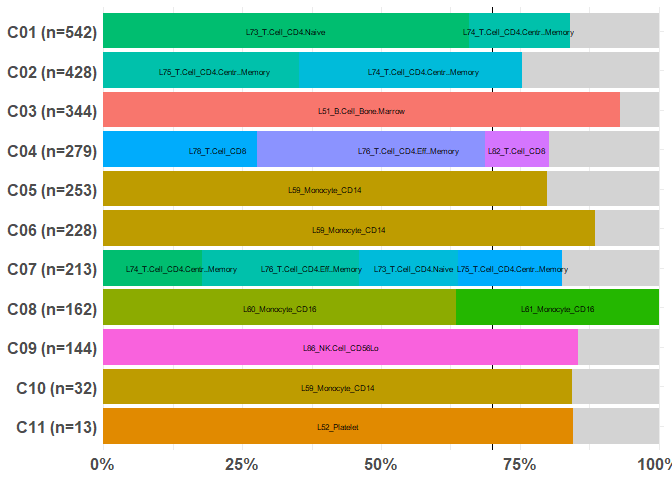
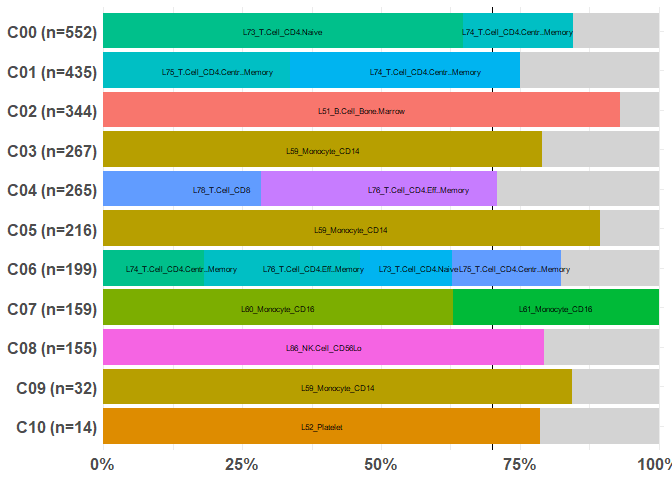
Updated the README.Rmd and knitted the md.

diff --git a/README.md b/README.md
@@ -21,14 +21,14 @@ We can ensure all the necessary prerequisites are met via
 ``` r
 if (!requireNamespace("pacman", quietly = TRUE)) install.packages("pacman")
 
-pacman::p_load( Seurat, SingleR, celldex )
+pacman::p_load(Seurat, SingleR, celldex, tidyverse)
 
-pacman::p_load_gh("prabhakarlab/RCAv2")
-pacman::p_load_gh("JinmiaoChenLab/DISCOtoolkit")
 pacman::p_load_gh("satijalab/Azimuth")
+pacman::p_load_gh("prabhakarlab/RCAv2")
+pacman::p_load_gh("lmw123/DISCOtoolkit")
 ```
 
-Next, you can install AnnotateCells:
+Finally, you can install AnnotateCells:
 
 ``` r
 pacman::p_load_gh("adairama/AnnotateCells")
@@ -42,66 +42,55 @@ experiment. This is the same dataset used in the fundamental Seurat
 vignette after QC filtering with PCA and UMAP embedding. See
 `help(pbmc.demo)` for more details.
 
-``` r
-library(AnnotateCells)
-#> Loading required package: Seurat
-#> Warning: package 'Seurat' was built under R version 4.4.3
-#> Loading required package: SeuratObject
-#> Warning: package 'SeuratObject' was built under R version 4.4.3
-#> Loading required package: sp
-#> Warning: package 'sp' was built under R version 4.4.2
-#> 
-#> Attaching package: 'SeuratObject'
-#> The following objects are masked from 'package:base':
-#> 
-#>     intersect, t
-#> Loading required package: tidyverse
-#> Warning: package 'ggplot2' was built under R version 4.4.3
-#> Warning: package 'purrr' was built under R version 4.4.2
-#> Warning: package 'lubridate' was built under R version 4.4.2
-#> ── Attaching core tidyverse packages ────────────────────────────────────────────────────────────────────────────────────────────── tidyverse 2.0.0 ──
-#> ✔ dplyr     1.1.4     ✔ readr     2.1.5
-#> ✔ forcats   1.0.0     ✔ stringr   1.5.1
-#> ✔ ggplot2   3.5.2     ✔ tibble    3.2.1
-#> ✔ lubridate 1.9.4     ✔ tidyr     1.3.1
-#> ✔ purrr     1.0.4
-#> ── Conflicts ──────────────────────────────────────────────────────────────────────────────────────────────────────────────── tidyverse_conflicts() ──
-#> ✖ dplyr::filter() masks stats::filter()
-#> ✖ dplyr::lag()    masks stats::lag()
-#> ℹ Use the conflicted package (<http://conflicted.r-lib.org/>) to force all conflicts to become errors
+First we load the required packages:
 
+``` r
+pacman::p_load(tidyverse, Seurat, AnnotateCells)
+```
+
+``` r
 data(pbmc.demo)
 
 pbmc.demo
 #> An object of class Seurat 
-#> 13714 features across 2638 samples within 1 assay 
-#> Active assay: RNA (13714 features, 2000 variable features)
+#> 12519 features across 2638 samples within 1 assay 
+#> Active assay: RNA (12519 features, 2000 variable features)
 #>  2 layers present: counts, data
 #>  2 dimensional reductions calculated: pca, umap
 ```
 
-The Seurat package includes a column called `seurat_annotations`, which
-we will treat as the ground truth for evaluating annotation accuracy.
+`pbmc.demo` includes two relevant columns in meta.data:
 
-For the purpose of demonstrating the cell annotation workflow, we will
-use annotate the 11 clusters found in the `RNA_snn_res.0.8` column.
-These clusters were generated using the Louvain algorithm with a
-resolution of 0.8.
+- `seurat_annotations`: author-provided cell type labels, used here as
+  ground truth for evaluating annotation accuracy
+
+- `RNA_snn_res.0.8`: cluster assignments generated by the Louvain
+  algorithm at a resolution of 0.8, yielding 11 clusters which we will
+  try to annotate
 
 ``` r
 pbmc.demo@meta.data %>% head()
 #>                nCount_RNA nFeature_RNA percent.mt seurat_annotations RNA_snn_res.0.8
-#> AAACATACAACCAC       2419          779       3.02       Memory CD4 T             C07
-#> AAACATTGAGCTAC       4903         1352       3.79                  B             C03
-#> AAACATTGATCAGC       3147         1129       0.89       Memory CD4 T             C02
-#> AAACCGTGCTTCCG       2639          960       1.74         CD14+ Mono             C05
-#> AAACCGTGTATGCG        980          521       1.22                 NK             C09
-#> AAACGCACTGGTAC       2163          781       1.66       Memory CD4 T             C02
+#> AAACATACAACCAC       2419          779       3.02       Memory CD4 T             C06
+#> AAACATTGAGCTAC       4903         1352       3.79                  B             C02
+#> AAACATTGATCAGC       3147         1129       0.89       Memory CD4 T             C01
+#> AAACCGTGCTTCCG       2639          960       1.74         CD14+ Mono             C03
+#> AAACCGTGTATGCG        980          521       1.22                 NK             C08
+#> AAACGCACTGGTAC       2163          781       1.66       Memory CD4 T             C01
 
-table(pbmc.demo$RNA_snn_res.0.8)
-#> 
-#> C01 C02 C03 C04 C05 C06 C07 C08 C09 C10 C11 
-#> 542 428 344 279 253 228 213 162 144  32  13
+# Note: this is a luxury since we have a ground truth
+table(pbmc.demo$seurat_annotations, pbmc.demo$RNA_snn_res.0.8) 
+#>               
+#>                C00 C01 C02 C03 C04 C05 C06 C07 C08 C09 C10
+#>   Naive CD4 T  534  15   0   0   0   0 148   0   0   0   0
+#>   Memory CD4 T  18 420   0   0   2   0  43   0   0   0   0
+#>   CD14+ Mono     0   0   0 263   0 216   0   1   0   0   0
+#>   B              0   0 344   0   0   0   0   0   0   0   0
+#>   CD8 T          0   0   0   0 263   0   8   0   0   0   0
+#>   FCGR3A+ Mono   0   0   0   4   0   0   0 158   0   0   0
+#>   NK             0   0   0   0   0   0   0   0 155   0   0
+#>   DC             0   0   0   0   0   0   0   0   0  32   0
+#>   Platelet       0   0   0   0   0   0   0   0   0   0  14
 ```
 
 # Available panels
@@ -111,19 +100,16 @@ dt
 # Run RCAv2 annotation
 
 Here is an example on how to run the RCAv2 tool with the
-GlobalPanel_CellTypes panel.
+GlobalPanel_CellTypes panel and add the results to the meta data.
 
 ``` r
 pred <- AnnotateCells(pbmc.demo, "RCAv2.GlobalPanel_CellTypes")
 #> 
 #>  GlobalPanel_CellTypes 
-#> 13714 genes in query dataset.
+#> 12519 genes in query dataset.
 #> 8883 genes detected in at least 1% of the samples.
 #> 5209 genes in the reference panel.
 #> 1192 genes in common used for projection.
-
-dim(pred)
-#> [1] 2638    1
 
 head(pred)
 #>                 RCAv2.GlobalPanel_CellTypes
@@ -133,11 +119,7 @@ head(pred)
 #> AAACCGTGCTTCCG            L60_Monocyte_CD16
 #> AAACCGTGTATGCG           L86_NK.Cell_CD56Lo
 #> AAACGCACTGGTAC L75_T.Cell_CD4.Centr..Memory
-```
 
-Let us add the prediction to the Seurat object.
-
-``` r
 pbmc.demo <- AddMetaData(pbmc.demo, pred)
 ```
 
@@ -145,52 +127,48 @@ pbmc.demo <- AddMetaData(pbmc.demo, pred)
 
 The first time you run the DISCO annotation, the required reference data
 (~175 MB) will be downloaded from the server. This may take a few
-minutes (\<5 min), depending on your internet speed. The downloaded data
-will be stored in the data directory of the `AnnotateCells` package for
-future use.
+minutes (\< 5 min), depending on your internet speed. The downloaded
+data will be stored in the data directory of the `AnnotateCells` package
+for future use.
 
 ``` r
 pred <- AnnotateCells(pbmc.demo, "DISCO.all")
 #> As of Seurat v5, we recommend using AggregateExpression to perform pseudo-bulk analysis.
-#> Downloading reference data from server...
+#> Loading reference data from local file...
 #> 
-#> Download complete. File saved to: C:/Users/aramasamy/AppData/Local/R/win-library/4.4/AnnotateCells/data/ref_data.rds
-#> 
-#> Downloading reference deg from server...
-#> 
-#> Download complete. File saved to: C:/Users/aramasamy/AppData/Local/R/win-library/4.4/AnnotateCells/data/ref_deg.rds
+#> Loading reference deg from local file...
 #> 
 #> Loading required package: DISCOtoolkit
 #> 
-#> Welcome to DISCOtoolkit.
+#> Welcome to DISCOtoolkit. version 2.0.0
 #> 
 #> This message is displayed once per session.
 #> 
 #> 
 #> |Ident |predict_cell_type_1 |source_atlas_1    | score_1|
 #> |:-----|:-------------------|:-----------------|-------:|
-#> |6     |GZMK CD8 T cell     |sarcoidosis_blood |   0.826|
-#> |2     |Naive B cell        |sarcoidosis_blood |   0.841|
-#> |1     |Memory CD4 T cell   |sarcoidosis_blood |   0.943|
-#> |4     |CD14 monocyte       |COVID-19_blood    |   0.833|
-#> |8     |CD16 NK cell        |COVID-19_blood    |   0.838|
-#> |3     |Memory CD8 T cell   |dengue_blood      |   0.810|
+#> |6     |GZMK CD8 T cell     |sarcoidosis_blood |   0.844|
+#> |2     |Naive B cell        |sarcoidosis_blood |   0.838|
+#> |1     |Memory CD4 T cell   |sarcoidosis_blood |   0.934|
+#> |3     |CD14 monocyte       |COVID-19_blood    |   0.830|
+#> |8     |CD16 NK cell        |bone_marrow       |   0.837|
+#> |4     |Memory CD8 T cell   |dengue_blood      |   0.795|
 #> |7     |CD16 monocyte       |HNSCC_blood       |   0.864|
-#> |0     |Naive CD4 T cell    |HNSCC_blood       |   0.967|
+#> |0     |Naive CD4 T cell    |HNSCC_blood       |   0.966|
 #> |5     |CD14 monocyte       |COVID-19_blood    |   0.854|
 #> |9     |Dendritic cell      |HNSCC_blood       |   0.891|
 #> |10    |Megakaryocyte       |sarcoidosis_blood |   0.776|
 
-pbmc.demo <- AddMetaData(pbmc.demo, pred)
+head(pred)
+#>                        DISCO.all
+#> AAACATACAACCAC   GZMK CD8 T cell
+#> AAACATTGAGCTAC      Naive B cell
+#> AAACATTGATCAGC Memory CD4 T cell
+#> AAACCGTGCTTCCG     CD14 monocyte
+#> AAACCGTGTATGCG      CD16 NK cell
+#> AAACGCACTGGTAC Memory CD4 T cell
 
-head(pbmc.demo@meta.data)
-#>                nCount_RNA nFeature_RNA percent.mt seurat_annotations RNA_snn_res.0.8  RCAv2.GlobalPanel_CellTypes         DISCO.all
-#> AAACATACAACCAC       2419          779       3.02       Memory CD4 T             C07 L74_T.Cell_CD4.Centr..Memory   GZMK CD8 T cell
-#> AAACATTGAGCTAC       4903         1352       3.79                  B             C03       L51_B.Cell_Bone.Marrow      Naive B cell
-#> AAACATTGATCAGC       3147         1129       0.89       Memory CD4 T             C02 L75_T.Cell_CD4.Centr..Memory Memory CD4 T cell
-#> AAACCGTGCTTCCG       2639          960       1.74         CD14+ Mono             C05            L60_Monocyte_CD16     CD14 monocyte
-#> AAACCGTGTATGCG        980          521       1.22                 NK             C09           L86_NK.Cell_CD56Lo      CD16 NK cell
-#> AAACGCACTGGTAC       2163          781       1.66       Memory CD4 T             C02 L75_T.Cell_CD4.Centr..Memory Memory CD4 T cell
+pbmc.demo <- AddMetaData(pbmc.demo, pred)
 ```
 
 # Aligning annotation from cell-level to group-level
@@ -206,30 +184,30 @@ table( pbmc.demo$RCAv2.GlobalPanel_CellTypes,
        pbmc.demo$RNA_snn_res.0.8 ) %>% 
   print(zero.print = ".")
 #>                                      
-#>                                       C01 C02 C03 C04 C05 C06 C07 C08 C09 C10 C11
+#>                                       C00 C01 C02 C03 C04 C05 C06 C07 C08 C09 C10
 #>   L2_ESC                                .   .   .   .   .   .   1   .   .   .   .
 #>   L45_CMP_Bone.Marrow                   4   .   .   .   .   .   1   .   .   .   1
 #>   L48_Myelocyte_Bone.Marrow             .   .   .   .   .   2   .   .   .   .   .
 #>   L51_B.Cell_Bone.Marrow                .   . 320   .   .   .   .   .   .   .   .
 #>   L52_Platelet                          .   .   .   .   .   .   .   .   .   .  11
-#>   L59_Monocyte_CD14                     .   .   .   . 202 202   .   .   .  27   .
-#>   L60_Monocyte_CD16                     .   .   .   .  50  17   . 103   .   .   .
+#>   L59_Monocyte_CD14                     .   .   . 211   . 193   .   .   .  27   .
+#>   L60_Monocyte_CD16                     .   .   .  55   .  15   . 100   .   .   .
 #>   L61_Monocyte_CD16                     .   .   .   .   .   .   .  59   .   .   .
-#>   L62_Monocyte                          .   .   .   .   .   3   .   .   .   .   1
-#>   L64_Macrophage_Monocyte.derived       .   .   .   .   1   4   .   .   .   .   .
+#>   L62_Monocyte                          .   .   .   .   .   2   .   .   .   .   2
+#>   L64_Macrophage_Monocyte.derived       .   .   .   1   .   4   .   .   .   .   .
 #>   L69_Dendritic.Cell_Monocyte.derived   .   .   .   .   .   .   .   .   .   1   .
 #>   L72_Dendritic.Cell_Plasmacytoid       .   .   .   .   .   .   .   .   .   4   .
-#>   L73_T.Cell_CD4.Naive                357  49   .   .   .   .  38   .   .   .   .
-#>   L74_T.Cell_CD4.Centr..Memory         98 151   .  23   .   .  60   .   .   .   .
-#>   L75_T.Cell_CD4.Centr..Memory         68 172   .   .   .   .  38   .   .   .   .
-#>   L76_T.Cell_CD4.Eff..Memory            6  53   .  77   .   .  40   .   .   .   .
-#>   L77_T.Cell_CD8.Centr..Memory          .   .   .   4   .   .   1   .   .   .   .
-#>   L78_T.Cell_CD8                        2   2   . 115   .   .  16   .   5   .   .
-#>   L80_T.Cell_CD8.Eff..Memory            7   .   .   1   .   .   8   .   .   .   .
-#>   L81_T.Cell_CD8.Naive                  .   .   .   2   .   .   3   .   .   .   .
-#>   L82_T.Cell_CD8                        .   1   1  32   .   .   6   .   4   .   .
-#>   L85_NK.Cell_CD56Hi                    .   .   .  10   .   .   1   .  12   .   .
-#>   L86_NK.Cell_CD56Lo                    .   .   .  15   .   .   .   . 123   .   .
+#>   L73_T.Cell_CD4.Naive                358  50   .   .   .   .  36   .   .   .   .
+#>   L74_T.Cell_CD4.Centr..Memory        109 146   .   .  21   .  56   .   .   .   .
+#>   L75_T.Cell_CD4.Centr..Memory         65 180   .   .   .   .  33   .   .   .   .
+#>   L76_T.Cell_CD4.Eff..Memory            6  56   .   .  75   .  39   .   .   .   .
+#>   L77_T.Cell_CD8.Centr..Memory          .   .   .   .   4   .   1   .   .   .   .
+#>   L78_T.Cell_CD8                        2   2   .   . 113   .  16   .   7   .   .
+#>   L80_T.Cell_CD8.Eff..Memory            8   .   .   .   .   .   8   .   .   .   .
+#>   L81_T.Cell_CD8.Naive                  .   .   .   .   2   .   3   .   .   .   .
+#>   L82_T.Cell_CD8                        .   1   1   .  32   .   4   .   6   .   .
+#>   L85_NK.Cell_CD56Hi                    .   .   .   .   3   .   1   .  19   .   .
+#>   L86_NK.Cell_CD56Lo                    .   .   .   .  15   .   .   . 123   .   .
 #>   L89_B.Cell                            .   .   2   .   .   .   .   .   .   .   .
 #>   L90_B.Cell_Naive                      .   .  16   .   .   .   .   .   .   .   .
 #>   L92_B.Cell_Memory                     .   .   2   .   .   .   .   .   .   .   .
@@ -250,7 +228,7 @@ align_prediction_to_cluster(
 #> Warning: Removed 10 rows containing missing values or values outside the scale range (`geom_text()`).
 ```
 
-<img src="man/figures/README-unnamed-chunk-9-1.png" width="100%" />
+<img src="man/figures/README-unnamed-chunk-9-1.png" alt="" width="100%" />
 
 Here is an alternative text output:
 
@@ -260,65 +238,64 @@ align_prediction_to_cluster(
   cluster    = pbmc.demo$RNA_snn_res.0.8,
   type       = "split"
 )
+#> $C00
+#>   cluster                   prediction   n      prop   cumprop
+#> 1     C00         L73_T.Cell_CD4.Naive 358 0.6485507 0.6485507
+#> 2     C00 L74_T.Cell_CD4.Centr..Memory 109 0.1974638 0.8460145
+#> 3     C00                        Misc.  85 0.1539855 1.0000000
+#> 
 #> $C01
 #>   cluster                   prediction   n      prop   cumprop
-#> 1     C01         L73_T.Cell_CD4.Naive 357 0.6586716 0.6586716
-#> 2     C01 L74_T.Cell_CD4.Centr..Memory  98 0.1808118 0.8394834
-#> 3     C01                        Misc.  87 0.1605166 1.0000000
+#> 4     C01 L75_T.Cell_CD4.Centr..Memory 180 0.4137931 0.4137931
+#> 5     C01 L74_T.Cell_CD4.Centr..Memory 146 0.3356322 0.7494253
+#> 6     C01                        Misc. 109 0.2505747 1.0000000
 #> 
 #> $C02
-#>   cluster                   prediction   n      prop   cumprop
-#> 4     C02 L75_T.Cell_CD4.Centr..Memory 172 0.4018692 0.4018692
-#> 5     C02 L74_T.Cell_CD4.Centr..Memory 151 0.3528037 0.7546729
-#> 6     C02                        Misc. 105 0.2453271 1.0000000
+#>   cluster             prediction   n       prop   cumprop
+#> 7     C02 L51_B.Cell_Bone.Marrow 320 0.93023256 0.9302326
+#> 8     C02                  Misc.  24 0.06976744 1.0000000
 #> 
 #> $C03
-#>   cluster             prediction   n       prop   cumprop
-#> 7     C03 L51_B.Cell_Bone.Marrow 320 0.93023256 0.9302326
-#> 8     C03                  Misc.  24 0.06976744 1.0000000
+#>    cluster        prediction   n      prop   cumprop
+#> 9      C03 L59_Monocyte_CD14 211 0.7902622 0.7902622
+#> 10     C03             Misc.  56 0.2097378 1.0000000
 #> 
 #> $C04
 #>    cluster                 prediction   n      prop   cumprop
-#> 9      C04             L78_T.Cell_CD8 115 0.4121864 0.4121864
-#> 10     C04 L76_T.Cell_CD4.Eff..Memory  77 0.2759857 0.6881720
-#> 11     C04             L82_T.Cell_CD8  32 0.1146953 0.8028674
-#> 12     C04                      Misc.  55 0.1971326 1.0000000
+#> 11     C04             L78_T.Cell_CD8 113 0.4264151 0.4264151
+#> 12     C04 L76_T.Cell_CD4.Eff..Memory  75 0.2830189 0.7094340
+#> 13     C04                      Misc.  77 0.2905660 1.0000000
 #> 
 #> $C05
-#>    cluster        prediction   n     prop  cumprop
-#> 13     C05 L59_Monocyte_CD14 202 0.798419 0.798419
-#> 14     C05             Misc.  51 0.201581 1.000000
+#>    cluster        prediction   n      prop   cumprop
+#> 14     C05 L59_Monocyte_CD14 193 0.8935185 0.8935185
+#> 15     C05             Misc.  23 0.1064815 1.0000000
 #> 
 #> $C06
-#>    cluster        prediction   n      prop   cumprop
-#> 15     C06 L59_Monocyte_CD14 202 0.8859649 0.8859649
-#> 16     C06             Misc.  26 0.1140351 1.0000000
+#>    cluster                   prediction  n      prop   cumprop
+#> 16     C06 L74_T.Cell_CD4.Centr..Memory 56 0.2814070 0.2814070
+#> 17     C06   L76_T.Cell_CD4.Eff..Memory 39 0.1959799 0.4773869
+#> 18     C06         L73_T.Cell_CD4.Naive 36 0.1809045 0.6582915
+#> 19     C06 L75_T.Cell_CD4.Centr..Memory 33 0.1658291 0.8241206
+#> 20     C06                        Misc. 35 0.1758794 1.0000000
 #> 
 #> $C07
-#>    cluster                   prediction  n      prop   cumprop
-#> 17     C07 L74_T.Cell_CD4.Centr..Memory 60 0.2816901 0.2816901
-#> 18     C07   L76_T.Cell_CD4.Eff..Memory 40 0.1877934 0.4694836
-#> 19     C07         L73_T.Cell_CD4.Naive 38 0.1784038 0.6478873
-#> 20     C07 L75_T.Cell_CD4.Centr..Memory 38 0.1784038 0.8262911
-#> 21     C07                        Misc. 37 0.1737089 1.0000000
+#>    cluster        prediction   n      prop   cumprop
+#> 21     C07 L60_Monocyte_CD16 100 0.6289308 0.6289308
+#> 22     C07 L61_Monocyte_CD16  59 0.3710692 1.0000000
 #> 
 #> $C08
-#>    cluster        prediction   n      prop   cumprop
-#> 22     C08 L60_Monocyte_CD16 103 0.6358025 0.6358025
-#> 23     C08 L61_Monocyte_CD16  59 0.3641975 1.0000000
+#>    cluster         prediction   n      prop   cumprop
+#> 23     C08 L86_NK.Cell_CD56Lo 123 0.7935484 0.7935484
+#> 24     C08              Misc.  32 0.2064516 1.0000000
 #> 
 #> $C09
-#>    cluster         prediction   n      prop   cumprop
-#> 24     C09 L86_NK.Cell_CD56Lo 123 0.8541667 0.8541667
-#> 25     C09              Misc.  21 0.1458333 1.0000000
+#>    cluster        prediction  n    prop cumprop
+#> 25     C09 L59_Monocyte_CD14 27 0.84375 0.84375
+#> 26     C09             Misc.  5 0.15625 1.00000
 #> 
 #> $C10
-#>    cluster        prediction  n    prop cumprop
-#> 26     C10 L59_Monocyte_CD14 27 0.84375 0.84375
-#> 27     C10             Misc.  5 0.15625 1.00000
-#> 
-#> $C11
 #>    cluster   prediction  n      prop   cumprop
-#> 28     C11 L52_Platelet 11 0.8461538 0.8461538
-#> 29     C11        Misc.  2 0.1538462 1.0000000
+#> 27     C10 L52_Platelet 11 0.7857143 0.7857143
+#> 28     C10        Misc.  3 0.2142857 1.0000000
 ```
